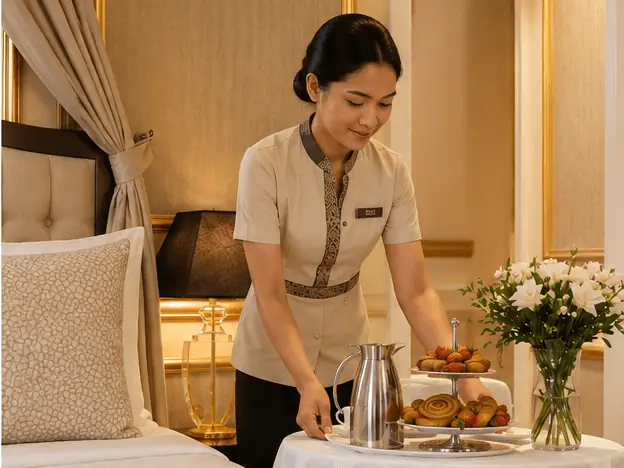
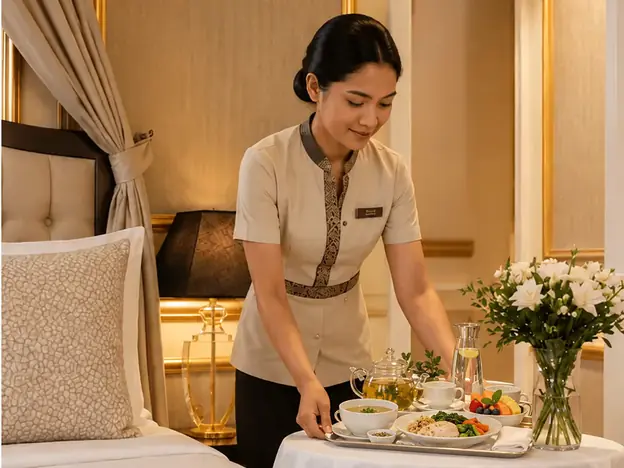
Rewrite the journey copy and add a founder page
The two homepage drawers, the Virtual Journey Assistance and Continuity
cards, and the Standard list are rewritten to describe coordination around
provider-led care rather than asserting clinical or logistics authority.
Drawer two is retitled Healthcare Journey Architecture to match.

The Virtual Journey Assistance card drops the insurance and pre-authorization
copy that had been the site's only mention of that service; the Continuity
card gains a second paragraph placing all clinical follow-up with licensed
providers.

Our Story's sign-off CTA becomes Meet the Founder, pointing at a new page
carrying Agnes's About the Principal write-up beside the portrait. Built
from the existing header, section-head and split patterns so it needs no
new CSS or JS; the heading shares a section with the split rather than
standing alone, which keeps one --section-y gap instead of two stacked.

The hilot photo on Why the Philippines is labelled with the media-caption
class already used by the Kawa Bath figure, which uppercases it. Its
media--4x3 box moves to an inner div: .media is overflow:hidden, so a
caption left inside it would have been clipped.

in-room-support.webp is replaced from a new source image via
rebuild-images.py, which cropped and sized it to the 624x468 the slot
already declares, so the markup is unchanged.

diff --git a/index.html b/index.html
@@ -159,10 +159,10 @@
                 <div class="card-body">
                   <span class="card-kicker">Phase 01</span>
                   <h3>Before Your Program Begins</h3>
-                  <p>Practical arrangements are structured in advance around the screening parameters or treatment plan established by your healthcare providers.</p>
+                  <p>Practical arrangements are organized in advance around the screening requirements or treatment plan established by your healthcare providers.</p>
                   <ul class="feature-list">
                     <li>Pre-care scheduling</li>
-                    <li>Accommodation matching</li>
+                    <li>Accommodation planning</li>
                     <li>Master itinerary architecture</li>
                   </ul>
                 </div>
@@ -171,11 +171,11 @@
                 <div class="card-body">
                   <span class="card-kicker">Phase 02</span>
                   <h3>During Your Stay</h3>
-                  <p>Day-to-day logistics and administrative details are managed continuously around the clinical and wellness schedule as the program unfolds.</p>
+                  <p>Day-to-day arrangements are coordinated around your clinical and wellness schedule as your program unfolds.</p>
                   <ul class="feature-list">
-                    <li>Multi-provider synchronization</li>
-                    <li>Wellness &amp; rest integration</li>
-                    <li>On-the-ground transport tracking</li>
+                    <li>Multi-provider scheduling</li>
+                    <li>Wellness and rest integration</li>
+                    <li>Clinical-timeline ground coordination</li>
                   </ul>
                 </div>
               </article>
@@ -183,11 +183,11 @@
                 <div class="card-body">
                   <span class="card-kicker">Phase 03</span>
                   <h3>Adapting to Your Care Plan</h3>
-                  <p>Logistics scale dynamically if diagnostic results require your healthcare team to recommend additional consultations, testing, or extended care.</p>
+                  <p>Should your healthcare team recommend additional consultations, testing, or an extended stay, Heal Before Home coordinates the surrounding changes.</p>
                   <ul class="feature-list">
-                    <li>Immediate schedule adjustments</li>
+                    <li>Schedule adjustments</li>
                     <li>Extended-stay coordination</li>
-                    <li>Real-time vendor alignment</li>
+                    <li>Provider and service alignment</li>
                   </ul>
                 </div>
               </article>
@@ -195,11 +195,11 @@
                 <div class="card-body">
                   <span class="card-kicker">Phase 04</span>
                   <h3>Returning Home &amp; Follow-Up</h3>
-                  <p>Administrative support transitions the client from their onsite health program back to their home country, prioritizing data continuity.</p>
+                  <p>Before departure, Heal Before Home (HBH) coordinates the administrative transition from your health program in the Philippines to continued care at home, with particular attention to records access and follow-up.</p>
                   <ul class="feature-list">
-                    <li>Data portability management</li>
-                    <li>Medical record compilation</li>
-                    <li>Home-country hand-off logistics</li>
+                    <li>Data Portability Management</li>
+                    <li>Medical Records &amp; Imaging Retrieval</li>
+                    <li>Secure Records Hand-Off</li>
                   </ul>
                 </div>
               </article>
@@ -208,14 +208,14 @@
         </div>
 
         <div class="acc-item">
-          <h2 style="margin:0"><button class="acc-trigger" type="button" aria-expanded="false" aria-controls="hbh-standard">The Heal Before Home Standard: True Logistics Architecture<span class="acc-icon" aria-hidden="true"></span></button></h2>
+          <h2 style="margin:0"><button class="acc-trigger" type="button" aria-expanded="false" aria-controls="hbh-standard">The Heal Before Home Standard: Healthcare Journey Architecture<span class="acc-icon" aria-hidden="true"></span></button></h2>
           <div class="acc-panel" id="hbh-standard"><div>
-            <p class="lead">Finding a healthcare provider is only one component of a medical journey. Traditional travel frameworks are built for leisure; Heal Before Home is engineered explicitly for the granular complexities surrounding advanced clinical timelines.</p>
+            <p class="lead">Finding a healthcare provider is only one component of a medical journey. Traditional travel frameworks are designed primarily around flights, hotels, and leisure itineraries. Heal Before Home is built around the more complex timing, recovery, documentation, and support requirements that can surround provider-led care.</p>
             <ul class="feature-list">
-              <li><strong>Chronological Preparation Mapping:</strong> Synchronizing your daily itinerary, private transportation, and rest windows strictly around mandatory clinical fasting, preparation guidelines, and multi-provider schedules.</li>
-              <li><strong>Anatomical Environment Vetting:</strong> Selecting accommodations and private recovery spaces based on low-mobility accessibility, structural support, and post-procedural rest optimization.</li>
-              <li><strong>Nutritional Alignment:</strong> Sourcing specialized meal delivery and dietary arrangements built in strict configuration with your provider's pre- and post-testing parameters.</li>
-              <li><strong>Data Portability &amp; Administrative Hand-Off:</strong> Managing the physical compilation and digital retrieval of your unedited medical records, laboratory metrics, and imaging files to guarantee absolute continuity of care with your physicians at home.</li>
+              <li><strong>Clinical Timeline Coordination:</strong> Synchronizing your daily itinerary, private transportation, rest periods, and surrounding arrangements around provider-established fasting requirements, preparation guidelines, diagnostic timing, and multi-provider schedules.</li>
+              <li><strong>Recovery-Appropriate Accommodation:</strong> Selecting accommodations and private recovery spaces based on accessibility, privacy, room layout, companion or caregiver needs, and provider-recommended environmental considerations such as light, noise, and rest requirements.</li>
+              <li><strong>Nutrition Around Provider Guidance:</strong> Coordinating specialized meal delivery and dietary arrangements around instructions established by your healthcare provider or dietitian before testing, treatment, and recovery.</li>
+              <li><strong>Data Portability &amp; Continuity:</strong> With your authorization, Heal Before Home coordinates the retrieval and secure organization of available medical records, laboratory results, imaging files, and provider documentation generated during your journey, helping make relevant information easier to access and share with your healthcare professionals at home.</li>
             </ul>
           </div></div>
         </div>
@@ -364,8 +364,8 @@
           </div>
           <div class="card-body">
             <span class="card-kicker">Behind the journey</span>
-            <h3>Insurance &amp; documentation support</h3>
-            <p>Where applicable, we coordinate non-clinical documentation and communication around your journey, working alongside your insurer, assistance company or benefits administrator. Coverage, eligibility, reimbursement and pre-authorization remain subject to your policy and the insurer's approval.</p>
+            <h3>Virtual Journey Assistance</h3>
+            <p>Behind the scenes, HBH provides ongoing administrative support for appointment confirmations, itinerary updates, document coordination, service requests, and the practical details that may arise throughout your journey.</p>
           </div>
         </article>
 
@@ -375,8 +375,9 @@
           </div>
           <div class="card-body">
             <span class="card-kicker">After you return</span>
-            <h3>Continuity once you are home</h3>
-            <p>We coordinate departure, follow-up logistics, provider communication and records where appropriate, so the transition home is as considered as the arrival. Medical follow-up remains with your healthcare providers.</p>
+            <h3>Continuity Once You Are Home</h3>
+            <p>We coordinate follow-up logistics, provider communication and records where appropriate, so the transition home is as considered as the arrival.</p>
+            <p>All clinical follow-up, symptom monitoring, and medical guidance remain exclusively with your licensed healthcare providers.</p>
           </div>
         </article>
       </div>

diff --git a/meet-the-founder.html b/meet-the-founder.html
@@ -1,0 +1,123 @@
+<!doctype html>
+<html lang="en">
+<head>
+<meta charset="utf-8">
+<meta name="viewport" content="width=device-width, initial-scale=1">
+<title>Meet the Founder: Agnes Dalisay | Heal Before Home</title>
+<meta name="description" content="Agnes Dalisay is the Principal and foundational architect of Heal Before Home, bringing the many moving parts of a healthcare journey into one coordinated ecosystem.">
+<link rel="canonical" href="https://www.healbeforehome.com/meet-the-founder">
+<meta name="theme-color" content="#faf7f1">
+<meta name="robots" content="index, follow">
+
+<meta property="og:type" content="profile">
+<meta property="og:site_name" content="Heal Before Home">
+<meta property="og:url" content="https://www.healbeforehome.com/meet-the-founder">
+<meta property="og:title" content="Meet the Founder: Agnes Dalisay | Heal Before Home">
+<meta property="og:description" content="Agnes Dalisay is the Principal and foundational architect of Heal Before Home.">
+<meta property="og:image" content="https://www.healbeforehome.com/assets/img/og-image.jpg">
+<meta name="twitter:card" content="summary_large_image">
+<meta name="twitter:title" content="Meet the Founder: Agnes Dalisay | Heal Before Home">
+<meta name="twitter:description" content="Agnes Dalisay is the Principal and foundational architect of Heal Before Home.">
+<meta name="twitter:image" content="https://www.healbeforehome.com/assets/img/og-image.jpg">
+
+<link rel="icon" href="favicon.ico" sizes="any">
+<link rel="icon" href="assets/img/favicon.png" type="image/png">
+<link rel="apple-touch-icon" href="assets/img/apple-touch-icon.png">
+
+<link rel="preconnect" href="https://fonts.googleapis.com">
+<link rel="preconnect" href="https://fonts.gstatic.com" crossorigin>
+<link rel="stylesheet" href="https://fonts.googleapis.com/css2?family=Alegreya+Sans:wght@300;400;500;600;700&amp;family=Cormorant:ital,wght@0,300;0,400;0,500;1,300;1,400&amp;display=swap">
+<script>document.documentElement.className+=" js";setTimeout(function(){if(!window.__hbhReady)document.documentElement.className+=" reveal-failsafe";},3000);</script>
+<link rel="stylesheet" href="assets/css/site.css">
+<script src="assets/js/site.js" defer></script>
+</head>
+<body>
+<a class="skip-link" href="#main">Skip to content</a>
+
+<header class="site-header">
+  <div class="wrap header-inner">
+    <a class="brand" href="index.html" aria-label="Heal Before Home, home">
+      <img src="assets/img/logo.png" srcset="assets/img/logo.png 180w, assets/img/logo@2x.png 360w" sizes="60px" width="180" height="179" alt="Heal Before Home monogram">
+      <span class="brand-name">Heal<br>Before Home</span>
+    </a>
+    <button class="nav-toggle" type="button" aria-expanded="false" aria-controls="primary-nav" aria-label="Toggle navigation"><span></span></button>
+    <nav class="nav" id="primary-nav" aria-label="Primary">
+      <a href="areas-of-care.html">Areas of Care</a>
+      <a href="medical-travel-philippines.html">Why the Philippines</a>
+      <a href="our-story-between-two-worlds.html">Our Story</a>
+      <a href="faq.html">FAQ</a>
+      <a href="for-providers.html">For Providers</a>
+      <a class="btn btn--journey" href="contact.html">Begin Your Journey</a>
+    </nav>
+  </div>
+</header>
+
+<main id="main">
+
+  <!-- ============ THE PRINCIPAL ============ -->
+  <section class="section">
+    <div class="wrap">
+      <div class="section-head" data-reveal>
+        <span class="kicker">About the Principal</span>
+        <h1>Meet the founder.</h1>
+      </div>
+    </div>
+    <div class="wrap split split--40">
+      <figure class="split-media media media--4x5" style="margin:0" data-reveal>
+        <img src="assets/img/founder.webp" srcset="assets/img/founder-560.webp 560w, assets/img/founder.webp 900w" sizes="(max-width:900px) 92vw, 36vw" width="900" height="1125" alt="Agnes Dalisay, founder of Heal Before Home" fetchpriority="high" decoding="async">
+      </figure>
+      <div class="split-body prose" data-reveal>
+        <p class="lead" style="font-weight:500; color:var(--ink)">Agnes Dalisay is the Principal and foundational architect of Heal Before Home.</p>
+        <p>Having spent her life navigating both global environments and local operational spaces, Agnes developed an objective perspective, one grounded in rigorous international service standards while remaining deeply connected to Filipino culture, hospitality, and an innate instinct to care for others.</p>
+        <p>Recognizing that finding a medical specialist is only one component of a complex care journey, she established Heal Before Home to bridge the fragmentation separating clinical expertise from real-world travel, environmental recovery, and lifestyle logistics.</p>
+        <p>Agnes leads the strategic development of Heal Before Home, including provider relationships, operating standards, and the quality of its non-clinical partner network. Her focus is to bring the many moving parts of a healthcare journey into one coordinated ecosystem, reducing administrative friction so clients can focus on their health, recovery, and return home.</p>
+        <div class="signature-block" style="margin-top:2.25rem">
+          <img src="assets/img/signature.webp" width="900" height="318" alt="Signature of Agnes Dalisay" loading="lazy" decoding="async">
+          <span class="name">Agnes Dalisay</span>
+          <span class="role">Founder, Heal Before Home</span>
+        </div>
+        <div class="btn-row" style="margin-top:2.25rem">
+          <a class="btn btn--journey" href="contact.html">Begin Your Journey</a>
+        </div>
+      </div>
+    </div>
+  </section>
+
+</main>
+
+<footer class="site-footer">
+  <div class="wrap">
+    <div class="footer-top">
+      <div class="footer-brand">
+        <img src="assets/img/logo-light.png" srcset="assets/img/logo-light.png 180w, assets/img/logo-light@2x.png 360w" sizes="70px" width="180" height="179" alt="Heal Before Home">
+        <p>Thoughtfully curated healing journeys, where care beyond treatment is designed around you.</p>
+      </div>
+      <div class="footer-col">
+        <h2>Explore</h2>
+        <ul>
+          <li><a href="areas-of-care.html">Areas of Care</a></li>
+          <li><a href="medical-travel-philippines.html">Why the Philippines</a></li>
+          <li><a href="our-story-between-two-worlds.html">Our Story: Between Two Worlds</a></li>
+          <li><a href="for-providers.html">For Providers</a></li>
+          <li><a href="contact.html">Contact</a></li>
+        </ul>
+      </div>
+      <div class="footer-col">
+        <h2>Legal</h2>
+        <ul>
+          <li><a href="terms-of-use.html">Terms of Use</a></li>
+          <li><a href="medical-service-disclaimer.html">Medical &amp; Service Disclaimer</a></li>
+          <li><a href="privacy-policy.html">Privacy Policy</a></li>
+        </ul>
+      </div>
+    </div>
+    <p class="footer-disclaimer">Heal Before Home is a non-clinical healthcare and wellness journey coordination and support platform, organizing the logistics, hospitality, recovery support, and related services surrounding provider-led care. We do not provide medical treatment, clinical advice or diagnoses, and we do not determine medical suitability. All medical decisions remain between you and your independent qualified healthcare providers.</p>
+    <div class="footer-bottom">
+      <p>&copy; <span data-year>2026</span> Heal Before Home. All rights reserved.</p>
+      <p>This is only the beginning.</p>
+    </div>
+  </div>
+</footer>
+
+</body>
+</html>

diff --git a/medical-travel-philippines.html b/medical-travel-philippines.html
@@ -172,8 +172,11 @@
         <h2>Recover beyond the city.</h2>
         <p class="lead">Not every recovery needs to unfold in the city. With appropriate travel clearance, you may choose to continue your recovery in Tagaytay, Batangas or Palawan, whether for a quieter setting after treatment or as a restorative extension before returning home. Heal Before Home coordinates the timing, transportation, accommodation and support around your recovery needs.</p>
       </div>
-      <figure class="split-media media media--4x3" style="margin:0" data-reveal>
-        <img src="assets/img/spec-hilot.webp" srcset="assets/img/spec-hilot-400.webp 400w, assets/img/spec-hilot.webp 640w" sizes="(max-width:900px) 92vw, 46vw" width="640" height="640" alt="A traditional Filipino hilot treatment using warm stones laid on banana leaf" loading="lazy" decoding="async">
+      <figure class="split-media" style="margin:0" data-reveal>
+        <div class="media media--4x3">
+          <img src="assets/img/spec-hilot.webp" srcset="assets/img/spec-hilot-400.webp 400w, assets/img/spec-hilot.webp 640w" sizes="(max-width:900px) 92vw, 46vw" width="640" height="640" alt="A traditional Filipino hilot treatment using warm stones laid on banana leaf" loading="lazy" decoding="async">
+        </div>
+        <figcaption class="media-caption">Hilot</figcaption>
       </figure>
     </div>
   </section>

diff --git a/our-story-between-two-worlds.html b/our-story-between-two-worlds.html
@@ -157,7 +157,7 @@
           <span class="role">Founder, Heal Before Home</span>
         </div>
         <div class="btn-row" style="margin-top:2.25rem">
-          <a class="btn btn--journey" href="contact.html">Begin Your Journey</a>
+          <a class="btn btn--journey" href="meet-the-founder.html">Meet the Founder</a>
         </div>
       </div>
     </div>
